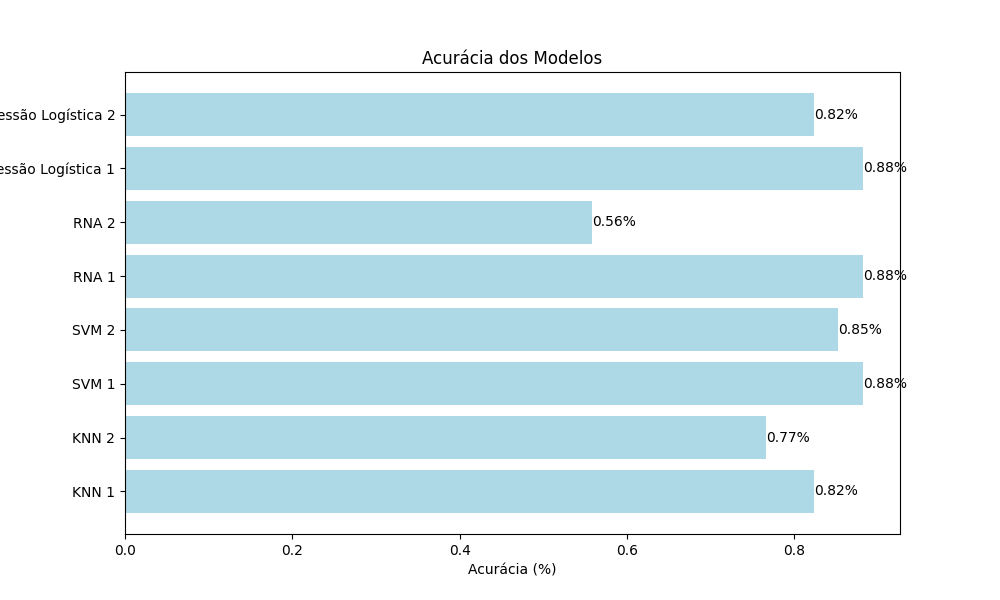
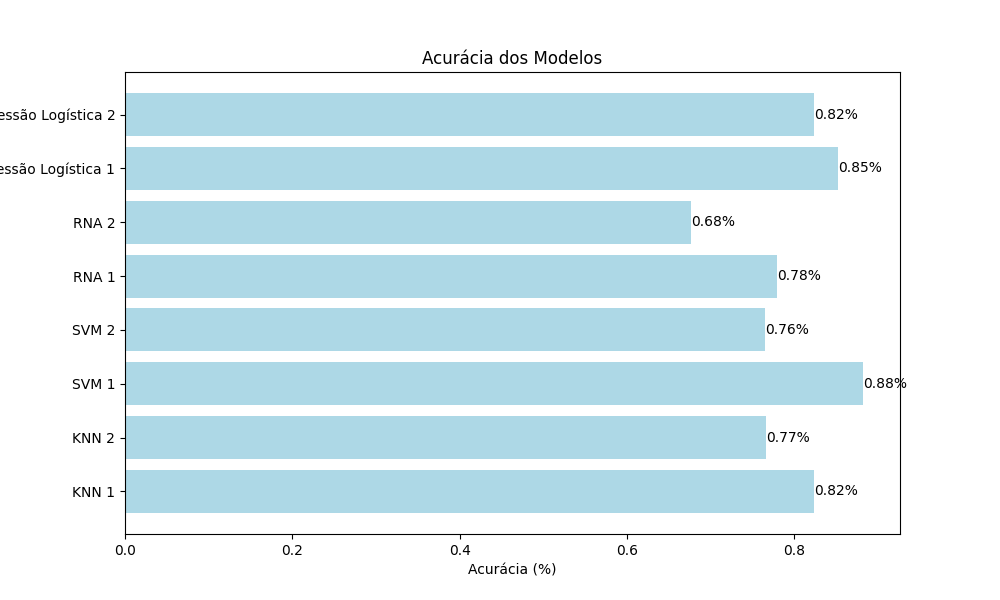
fix trocando random_state

Changed region(s): [[0.744, 0.42, 0.899, 0.6], [0.589, 0.33, 0.744, 0.42], [0.837, 0.24, 0.899, 0.33]]

diff --git a/main.py b/main.py
@@ -181,11 +181,11 @@ accuracyArray.append(accuracy)
 
 # Redes Neurais Artificiais 1
 start_time = time.time()
-X_train, X_test, y_train, y_test = train_test_split(X, y, test_size=0.25, random_state=42)
+X_train, X_test, y_train, y_test = train_test_split(X, y, test_size=0.25, random_state=123)
 scaler = StandardScaler()
 X_train = scaler.fit_transform(X_train)
 X_test = scaler.transform(X_test)
-model = MLPClassifier(hidden_layer_sizes=(64, 64), activation='relu', max_iter=1000, random_state=42)
+model = MLPClassifier(hidden_layer_sizes=(64, 64), activation='relu', max_iter=1000, random_state=123)
 model.fit(X_train, y_train)
 y_pred = model.predict(X_test)
 accuracy = accuracy_score(y_test, y_pred)
@@ -240,11 +240,11 @@ accuracyArray.append(accuracy)
 
 #Regressão logistica 1
 start_time = time.time()
-X_train, X_test, y_train, y_test = train_test_split(X, y, test_size=0.25, random_state=42)
+X_train, X_test, y_train, y_test = train_test_split(X, y, test_size=0.25, random_state=456)
 scaler = StandardScaler()
 X_train = scaler.fit_transform(X_train)
 X_test = scaler.transform(X_test)
-model = LogisticRegression(random_state=42)
+model = LogisticRegression(random_state=456)
 model.fit(X_train, y_train)
 y_pred = model.predict(X_test)
 accuracy = accuracy_score(y_test, y_pred)
@@ -350,6 +350,15 @@ for grafico in graficos:
     nome_arquivo = "grafico_" + titulo_da_janela + ".png"
     grafico.savefig(f"graficos/{nome_arquivo}")
 
-print(graficoModelos)
-print(accuracyArray)
-print(tempos)
+# print(graficoModelos)
+# print(accuracyArray)
+# print(tempos)
+data = {
+    "Modelo": graficoModelos,
+    "Acurácia": formatted_accuracy,
+    "Tempo (segundos)": formatted_tempos
+}
+
+df = pd.DataFrame(data)
+
+print(df)
